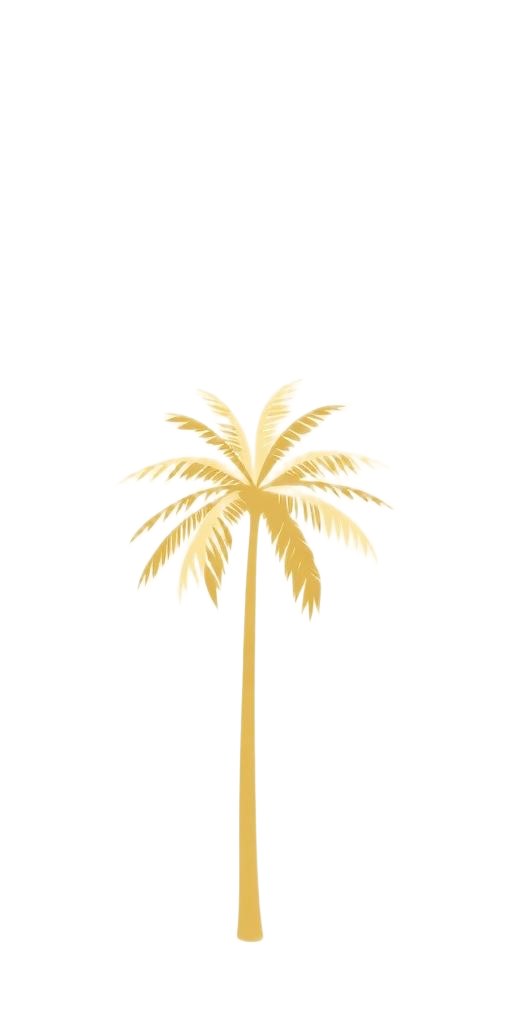
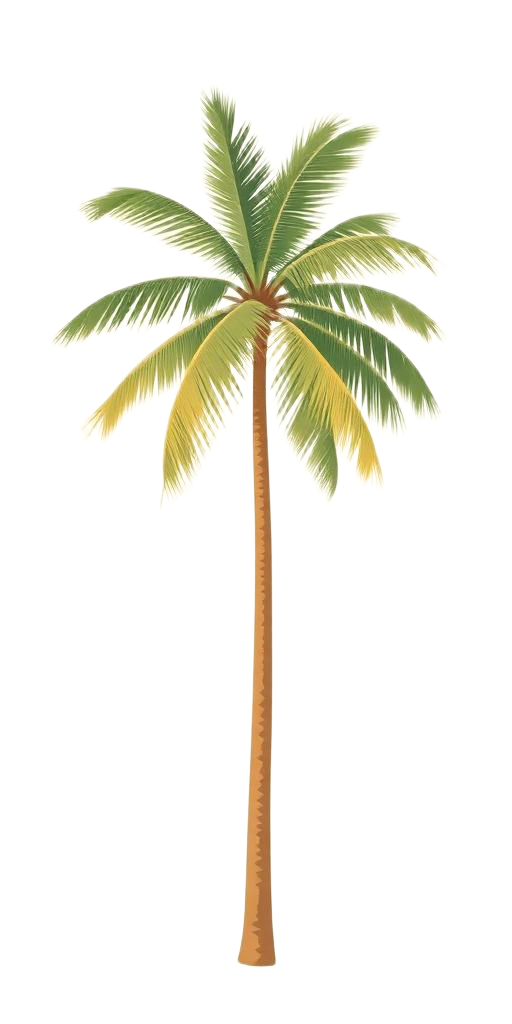
Changes

Changed region(s): [[0.0938, 0.0625, 0.875, 0.9688]]

diff --git a/src/components/HeroSection.tsx b/src/components/HeroSection.tsx
@@ -1,59 +1,106 @@
-import { site, waLinks } from "@/lib/site-config";
-import heroBurger from "@/assets/hero-burger.jpg";
+import { useEffect, useState } from "react";
+
+import { waLinks } from "@/lib/site-config";
+import heroNight from "@/assets/hero-restaurant-night.jpg";
+import palmTree from "@/assets/palm-tree.png";
 import logo from "@/assets/tpbc-logo.png.asset.json";
 
 export function HeroSection() {
+  const [offset, setOffset] = useState(0);
+
+  useEffect(() => {
+    if (window.matchMedia("(prefers-reduced-motion: reduce)").matches) return;
+    let frame = 0;
+    const onScroll = () => {
+      cancelAnimationFrame(frame);
+      frame = requestAnimationFrame(() => setOffset(window.scrollY * 0.12));
+    };
+    window.addEventListener("scroll", onScroll, { passive: true });
+    return () => {
+      window.removeEventListener("scroll", onScroll);
+      cancelAnimationFrame(frame);
+    };
+  }, []);
+
   return (
-    <section className="relative isolate min-h-[92svh] overflow-hidden bg-charcoal text-charcoal-foreground">
+    <section className="relative isolate min-h-[100svh] overflow-hidden bg-charcoal text-charcoal-foreground">
       <img
-        src={heroBurger}
-        alt="Smash burger on a golden potato bun at The Potato Bun Club in Amed, Bali"
-        width={1600}
-        height={1200}
-        className="absolute inset-0 h-full w-full object-cover opacity-55"
+        src={heroNight}
+        alt="The Potato Bun Club restaurant in Amed, Bali at blue hour, warm lights and a full dining room"
+        width={1920}
+        height={1280}
+        className="absolute inset-0 h-[112%] w-full object-cover"
+        style={{ transform: `translate3d(0, -${offset}px, 0)` }}
       />
-      <div className="absolute inset-0 bg-gradient-to-b from-charcoal/85 via-charcoal/55 to-charcoal" />
+      <div className="absolute inset-0 bg-charcoal/65" />
 
-      <div className="relative mx-auto flex min-h-[92svh] max-w-3xl flex-col justify-end px-5 pb-14 pt-16 sm:px-8">
-        <img
-          src={logo.url}
-          alt="The Potato Bun Club logo — Amed, Bali"
-          width={320}
-          height={320}
-          className="mb-6 h-32 w-32 sm:h-40 sm:w-40"
-        />
-        <span className="mb-4 inline-flex w-fit items-center rounded-full bg-charcoal-foreground px-3 py-1 text-xs font-semibold uppercase tracking-[0.18em] text-charcoal">
-          Amed · Bali
-        </span>
-        <h1 className="text-[2.75rem] uppercase leading-[0.92] sm:text-7xl">
-          The Potato
-          <br />
-          Bun Club
-        </h1>
-        <p className="mt-5 max-w-md text-lg text-charcoal-foreground/85">
-          <span className="font-marker block text-xl text-charcoal-foreground">
-            {site.tagline}
-          </span>
-          <span className="mt-2 block">
-            Hand-pressed patties, house sauces, and fries worth the walk from the beach.
-          </span>
-        </p>
+      <div className="relative mx-auto flex min-h-[100svh] w-full max-w-6xl flex-col px-5 pb-12 pt-10 sm:px-8 sm:pb-16 sm:pt-12">
+        {/* Upper-right handwritten block + palm */}
+        <div className="hero-fade flex justify-end" style={{ animationDelay: "80ms" }}>
+          <div className="flex items-stretch gap-3 sm:gap-5">
+            <div className="flex flex-col items-end text-right">
+              <p className="font-marker text-sm leading-[1.5] text-charcoal-foreground sm:text-base">
+                Daily made
+                <br />
+                butter toasted
+                <br />
+                potato buns
+              </p>
+              <span className="my-3 block h-px w-24 bg-charcoal-foreground/50 sm:w-32" />
+              <p className="font-subhead text-xs font-bold uppercase tracking-[0.32em] text-charcoal-foreground/85 sm:text-sm">
+                Amed, Bali
+              </p>
+            </div>
+            <img
+              src={palmTree}
+              alt=""
+              aria-hidden="true"
+              width={512}
+              height={1024}
+              className="w-auto self-stretch opacity-80"
+            />
+          </div>
+        </div>
 
-        <div className="mt-8 flex flex-col gap-3 sm:flex-row">
-          <a
-            href={waLinks.order}
-            target="_blank"
-            rel="noopener noreferrer"
-            className="inline-flex h-14 items-center justify-center rounded-full bg-charcoal-foreground px-8 text-base font-bold uppercase tracking-wide text-charcoal transition-transform hover:scale-[1.02] active:scale-95"
+        {/* Left stacked title */}
+        <div className="mt-auto">
+          <h1 className="hero-fade flex flex-col uppercase leading-[0.82] tracking-[0.01em]">
+            <span className="text-[15vw] sm:text-[8.5rem] lg:text-[10rem]">The</span>
+            <span className="text-[15vw] sm:text-[8.5rem] lg:text-[10rem]">Potato</span>
+            <span className="flex items-stretch gap-4 sm:gap-6">
+              <span className="flex flex-col">
+                <span className="text-[15vw] sm:text-[8.5rem] lg:text-[10rem]">Bun</span>
+                <span className="text-[15vw] sm:text-[8.5rem] lg:text-[10rem]">Club</span>
+              </span>
+              <img
+                src={logo.url}
+                alt="The Potato Bun Club logo"
+                width={320}
+                height={320}
+                className="w-auto self-stretch"
+              />
+            </span>
+          </h1>
+
+          <div
+            className="hero-fade mt-9 flex flex-col gap-3 sm:flex-row"
+            style={{ animationDelay: "160ms" }}
           >
-            Order on WhatsApp
-          </a>
-          <a
-            href="#menu"
-            className="inline-flex h-14 items-center justify-center rounded-full border border-charcoal-foreground/40 bg-charcoal-foreground/5 px-8 text-base font-bold uppercase tracking-wide text-charcoal-foreground backdrop-blur transition-colors hover:bg-charcoal-foreground/15"
-          >
-            See the menu
-          </a>
+            <a
+              href={waLinks.order}
+              target="_blank"
+              rel="noopener noreferrer"
+              className="inline-flex h-14 items-center justify-center rounded-full bg-charcoal-foreground px-8 font-subhead text-sm font-bold uppercase tracking-[0.14em] text-charcoal"
+            >
+              Order on WhatsApp
+            </a>
+            <a
+              href="#menu"
+              className="inline-flex h-14 items-center justify-center rounded-full border border-charcoal-foreground/70 px-8 font-subhead text-sm font-bold uppercase tracking-[0.14em] text-charcoal-foreground transition-colors hover:bg-charcoal-foreground/10"
+            >
+              See the menu
+            </a>
+          </div>
         </div>
       </div>
     </section>
